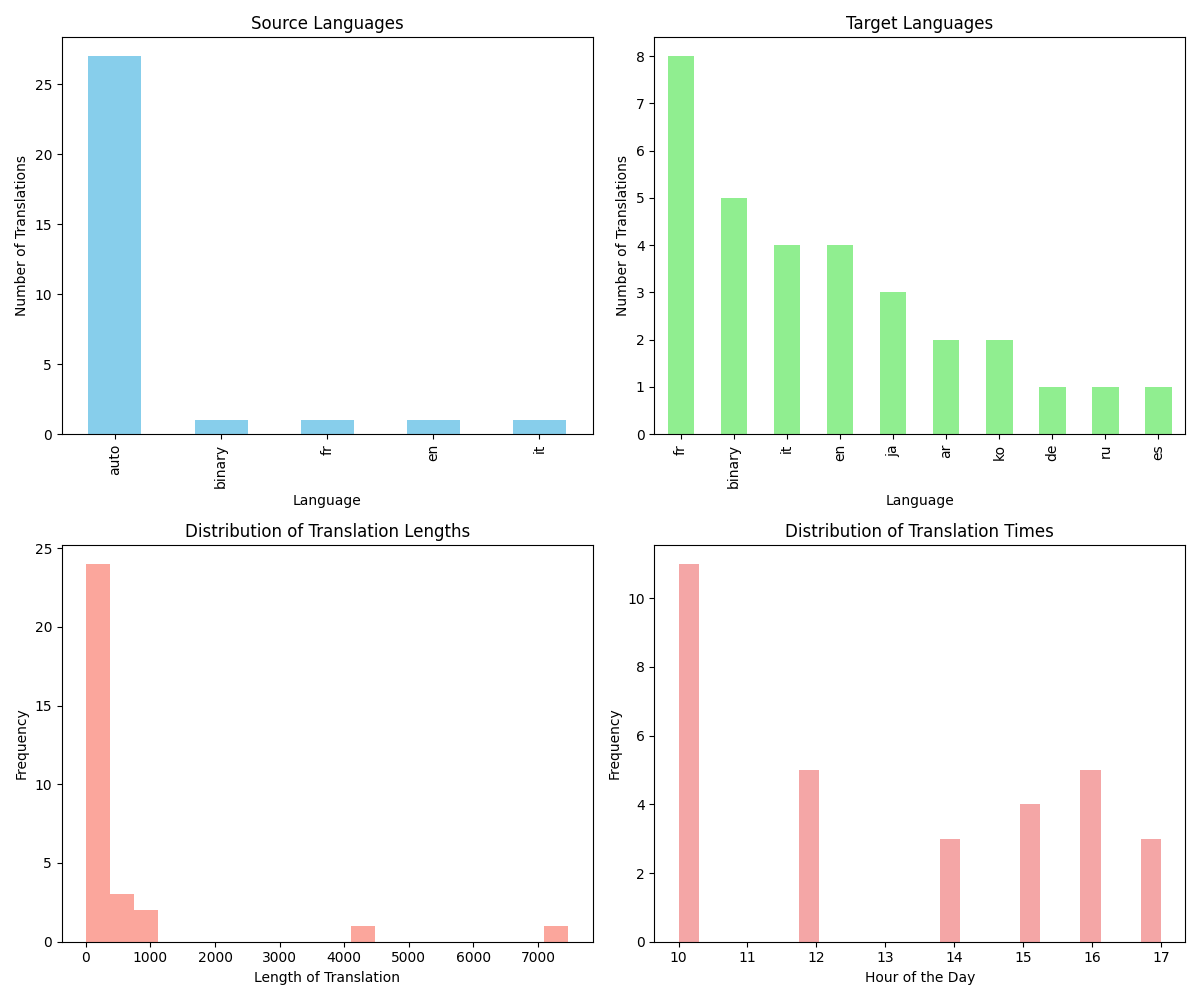
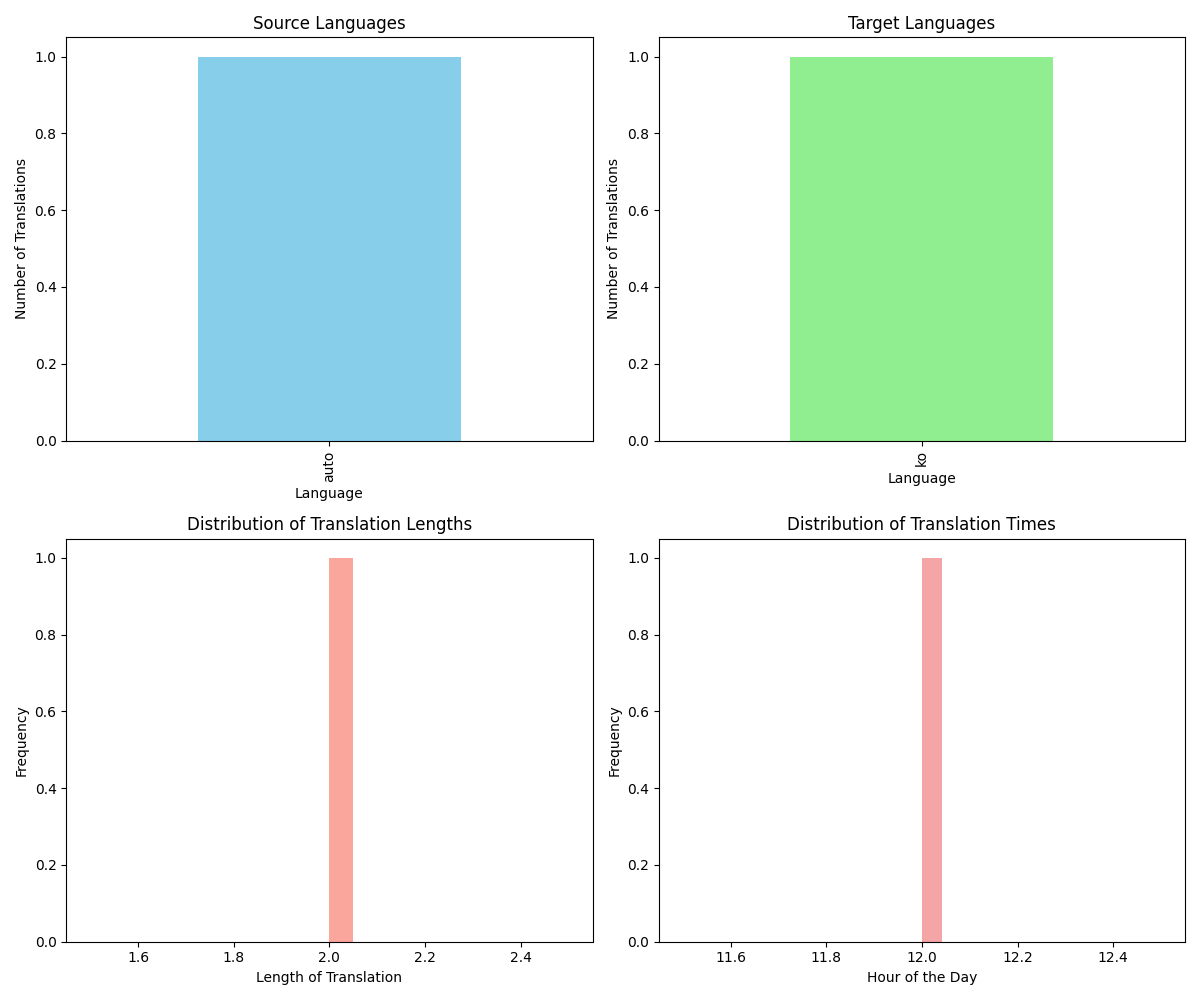
updates : Modification: A single CSV file that updates with the historical data. Added a button to clear the history CSV file. Added a message for the analysis page stating that there is no data if the CSV file is empty. Data ignoring when text fields are empty.

diff --git a/app/templates/analytics.html b/app/templates/analytics.html
@@ -9,28 +9,30 @@
 <body>
     <h1>Translation statistics</h1>
     
-    <div class="image-container">
-        <img src="{{ url_for('analytics_image') }}" alt="Translation statistics">
-    </div>
-    
-    <div class="stats">
-        <h2>Summary Statistics</h2>
-        <ul>
-            <li>Most common source languages:</li>
-            <pre>{{ source_languages }}</pre>
-            <li>Most common target languages:</li>
-            <pre>{{ target_languages }}</pre>
-            <li>Summary statistics for translation lengths:</li>
-            <pre>{{ translation_length_stats }}</pre>
-            <li>Summary statistics for translation times:</li>
-            <pre>{{ translation_time_stats }}</pre>
-        </ul>
-    </div>
+    {% if no_data %}
+        <p>No data available for analysis.</p>
+    {% else %}
+        <div class="image-container">
+            <img src="{{ url_for('analytics_image') }}" alt="Translation statistics">
+        </div>
+        
+        <div class="stats">
+            <h2>Summary Statistics</h2>
+            <ul>
+                <li>Most common source languages:</li>
+                <pre>{{ source_languages }}</pre>
+                <li>Most common target languages:</li>
+                <pre>{{ target_languages }}</pre>
+                <li>Summary statistics for translation lengths:</li>
+                <pre>{{ translation_length_stats }}</pre>
+                <li>Summary statistics for translation times:</li>
+                <pre>{{ translation_time_stats }}</pre>
+            </ul>
+        </div>
+    {% endif %}
     
     <div class="history-controls">
         <button onclick="location.href='{{ url_for('index') }}'">Back to home</button>
     </div>
 </body>
 </html>
-
-

diff --git a/app/templates/index.html b/app/templates/index.html
@@ -6,7 +6,7 @@
 </head>
 <body>
     <div class="title-container">
-        <h1>Welcome to Lingua Franca !</h1>
+        <h1>Welcome to Lingua Franca!</h1>
     </div>     
     <div class="form-container">
         <!-- translate formulaire -->
@@ -54,11 +54,15 @@
                 <div class="history-controls">
                     <!-- Formulaire Save History -->
                     <form method="POST" action="/save_history">
-                        <input type="submit" value="Save History">
+                        <input type="submit" value="Save History on CSV file">
                     </form>
                     <!-- Formulaire Clear History -->
                     <form method="POST" action="/clear_history">
-                        <input type="submit" value="Clear History">
+                        <input type="submit" value="Clear History on the page">
+                    </form>
+                    <!-- Formulaire Clear CSV -->
+                    <form method="POST" action="/clear_csv">
+                        <input type="submit" value="Clear History CSV File">
                     </form>
                 </div>
             </div>

diff --git a/app/routes.py b/app/routes.py
@@ -1,4 +1,5 @@
 # routes.py
+import glob
 from flask import render_template, request, session, redirect, url_for, send_from_directory
 from app import app
 from translator.google_translate import GoogleTranslate
@@ -41,19 +42,34 @@ def index():
 def save_history():
     if not session['translations']:
         return redirect(url_for('index'))
-    now = datetime.now()
-    date_time = now.strftime("%Y-%m-%d_%H-%M-%S")
-    filename = os.path.join(data_dir, date_time + '_history.csv')
-    with open(filename, 'w', newline='', encoding='utf-8') as f:
+
+    # Ensure 'data/' directory exists
+    if not os.path.isdir(data_dir):
+        os.makedirs(data_dir)
+
+    filename = os.path.join(data_dir, 'translations_history.csv')
+    with open(filename, 'a', newline='', encoding='utf-8') as f:
         writer = csv.writer(f)
-        writer.writerow(["Time", "Source Language", "Target Language", "Original Text", "Translated Text"])
+        if os.path.getsize(filename) == 0:  # Write header if file is empty
+            writer.writerow(["Time", "Source Language", "Target Language", "Original Text", "Translated Text"])
         writer.writerows(session['translations'])
+    
     session['translations'] = []
     return redirect(url_for('index'))
+
 
 @app.route('/clear_history', methods=['POST'])
 def clear_history():
     session['translations'] = []
+    return redirect(url_for('index'))
+
+@app.route('/clear_csv', methods=['POST'])
+def clear_csv():
+    filenames = glob.glob(os.path.join(data_dir, '*.csv'))
+    for filename in filenames:
+        with open(filename, 'w', newline='', encoding='utf-8') as f:
+            writer = csv.writer(f)
+            writer.writerow(["Time", "Source Language", "Target Language", "Original Text", "Translated Text"])
     return redirect(url_for('index'))
 
 @app.route('/analytics', methods=['GET'])
@@ -62,11 +78,15 @@ def analytics():
     stats_path = os.path.join(data_dir, 'translation_stats.txt')
     with open(stats_path, 'r') as f:
         stats_data = f.read()
-        source_languages = stats_data.split('\n\n')[0]
-        target_languages = stats_data.split('\n\n')[1]
-        translation_length_stats = stats_data.split('\n\n')[2]
-        translation_time_stats = stats_data.split('\n\n')[3]
-    return render_template('analytics.html', source_languages=source_languages, target_languages=target_languages, translation_length_stats=translation_length_stats, translation_time_stats=translation_time_stats)
+    if "No data available" in stats_data:
+        return render_template('analytics.html', no_data=True)
+    else:
+        sections = stats_data.split('\n\n')
+        source_languages = sections[0] if len(sections) > 0 else "No data available"
+        target_languages = sections[1] if len(sections) > 1 else "No data available"
+        translation_length_stats = sections[2] if len(sections) > 2 else "No data available"
+        translation_time_stats = sections[3] if len(sections) > 3 else "No data available"
+        return render_template('analytics.html', no_data=False, source_languages=source_languages, target_languages=target_languages, translation_length_stats=translation_length_stats, translation_time_stats=translation_time_stats)
 
 @app.route('/analytics/image')
 def analytics_image():

diff --git a/analytics/analysis.py b/analytics/analysis.py
@@ -16,6 +16,14 @@ def analyze_translations(directory):
         df = pd.read_csv(filename, encoding='utf-8')
         data = data._append(df, ignore_index=True)
 
+    # Filter out rows where 'Original Text' or 'Translated Text' are 'empty text field'
+    data = data[(data['Original Text'] != 'empty text field') & (data['Translated Text'] != 'empty text field')]
+
+    if data.empty:
+        with open(os.path.join(directory, 'translation_stats.txt'), 'w') as f:
+            f.write("No data available for analysis.")
+        return
+
     # Convert the 'Time' column to datetime
     data['Time'] = pd.to_datetime(data['Time'])
 
